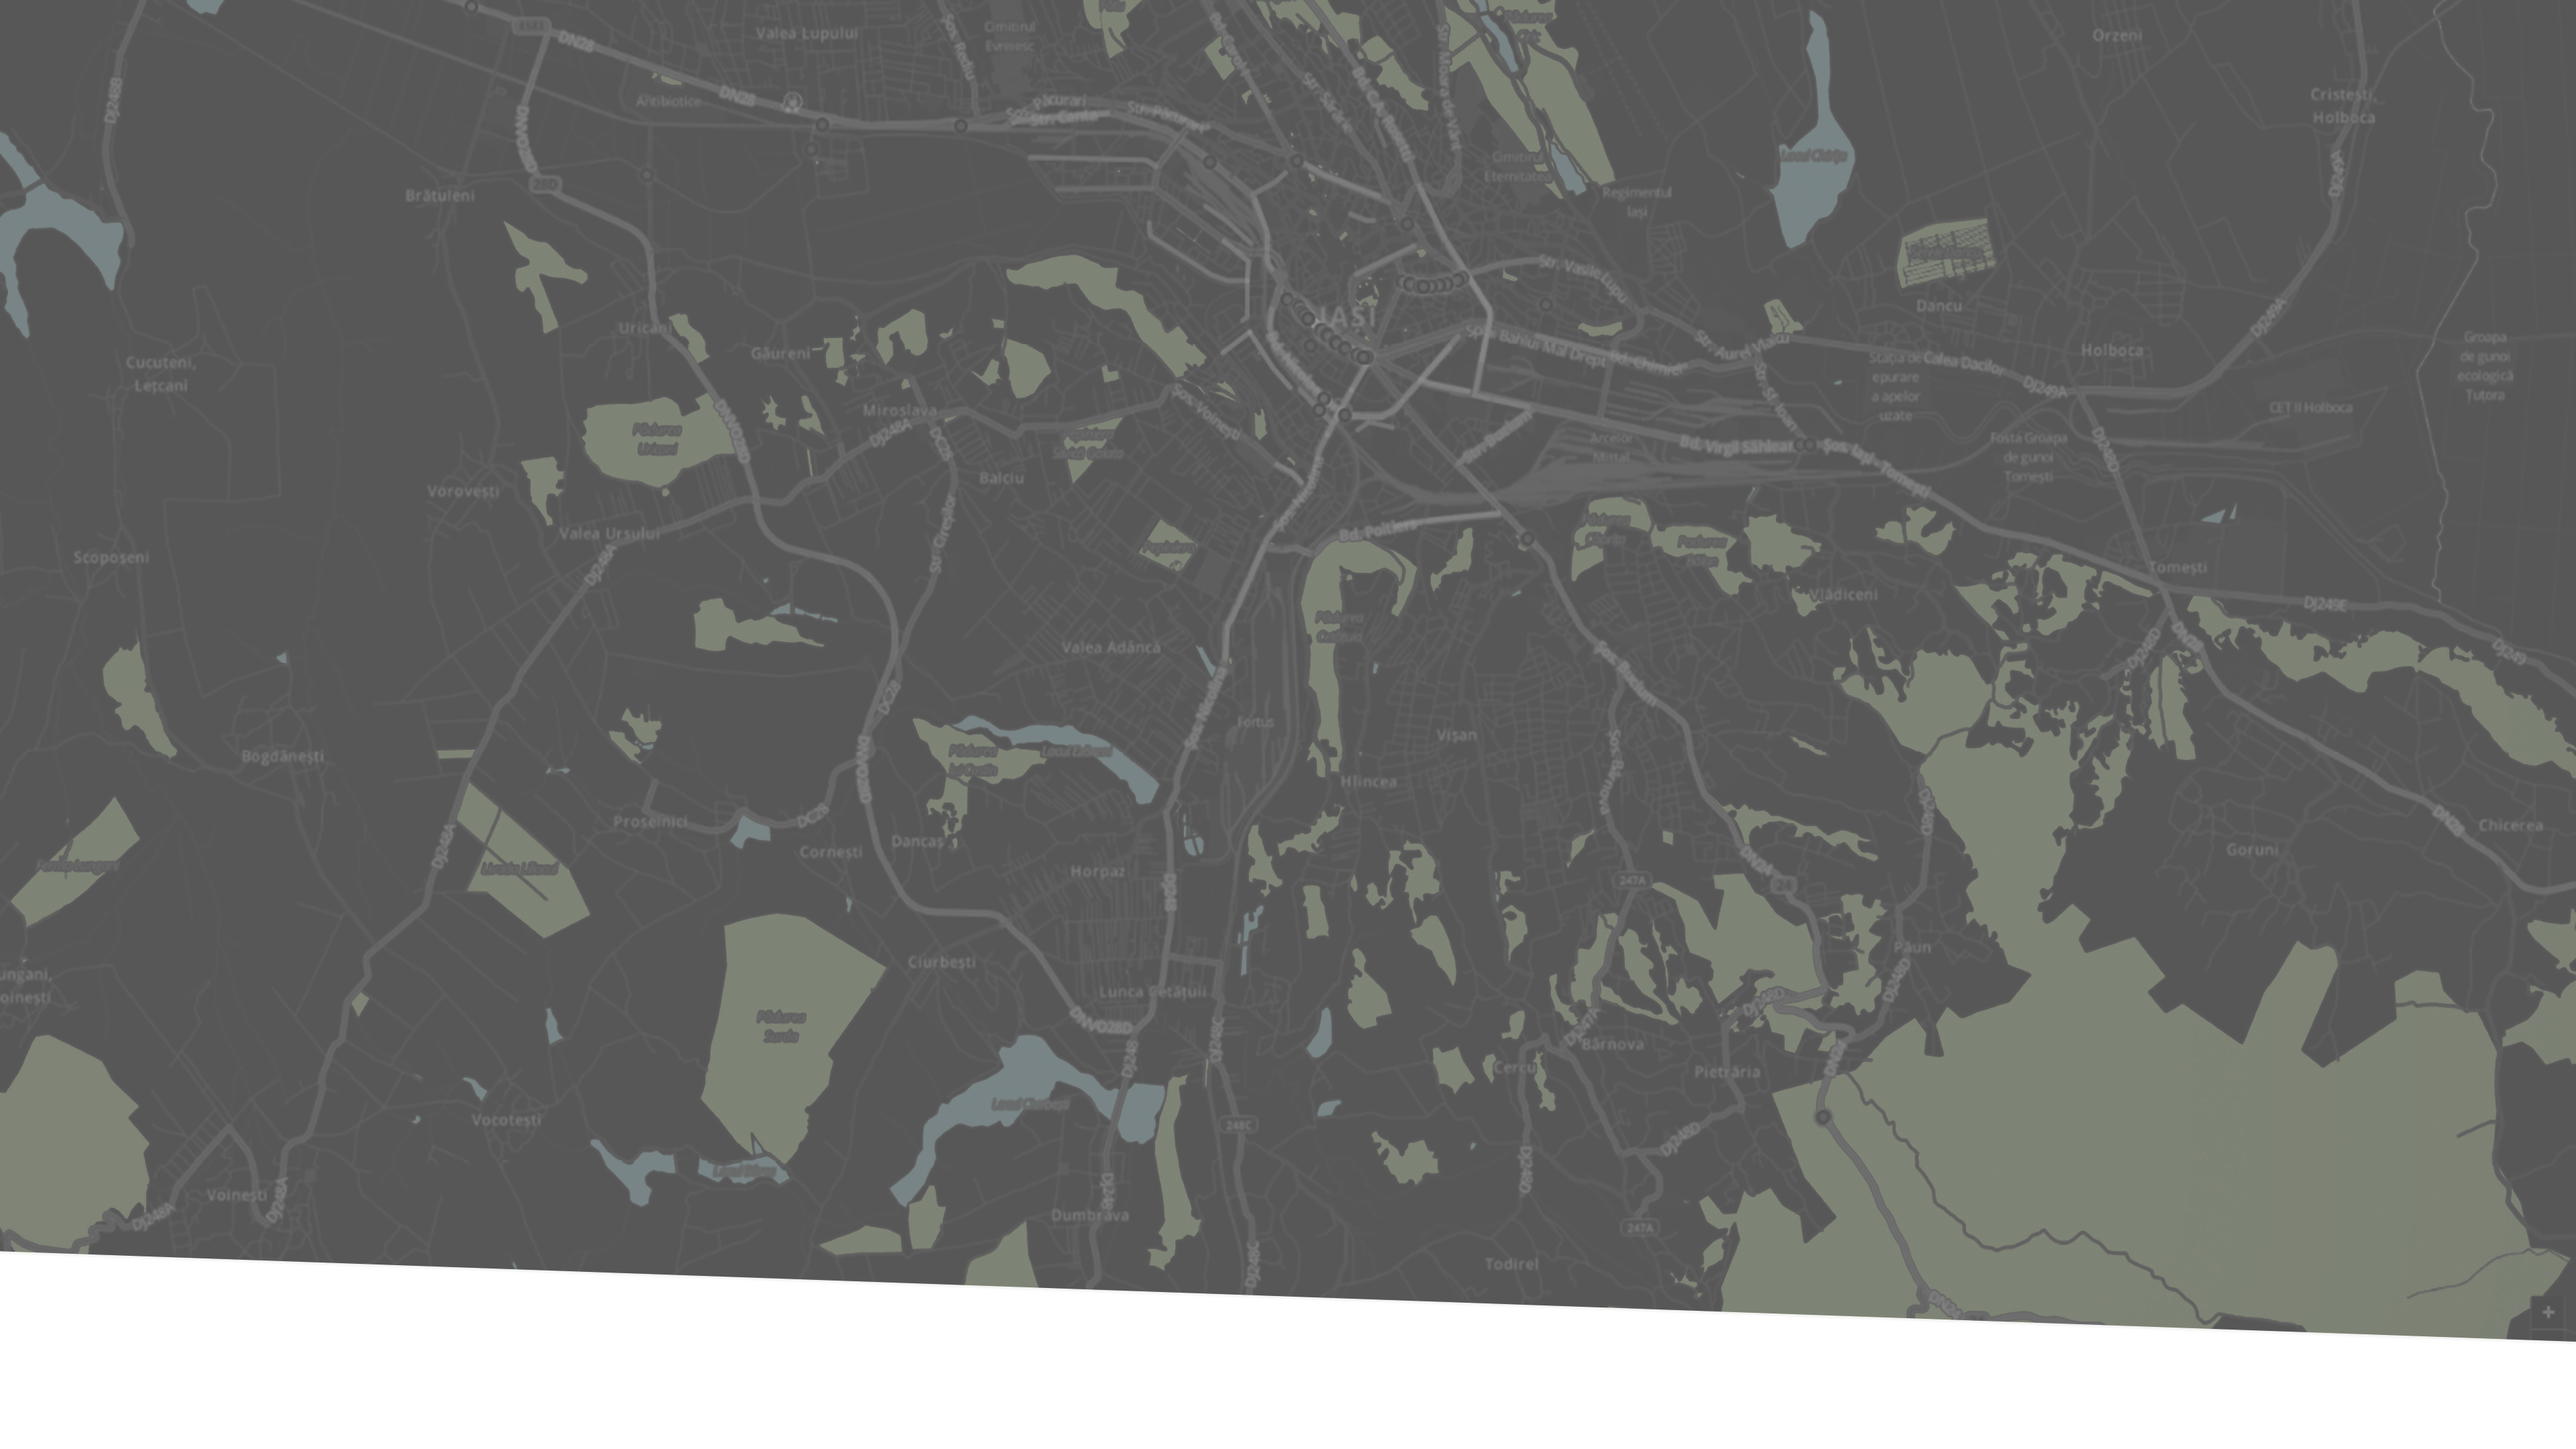
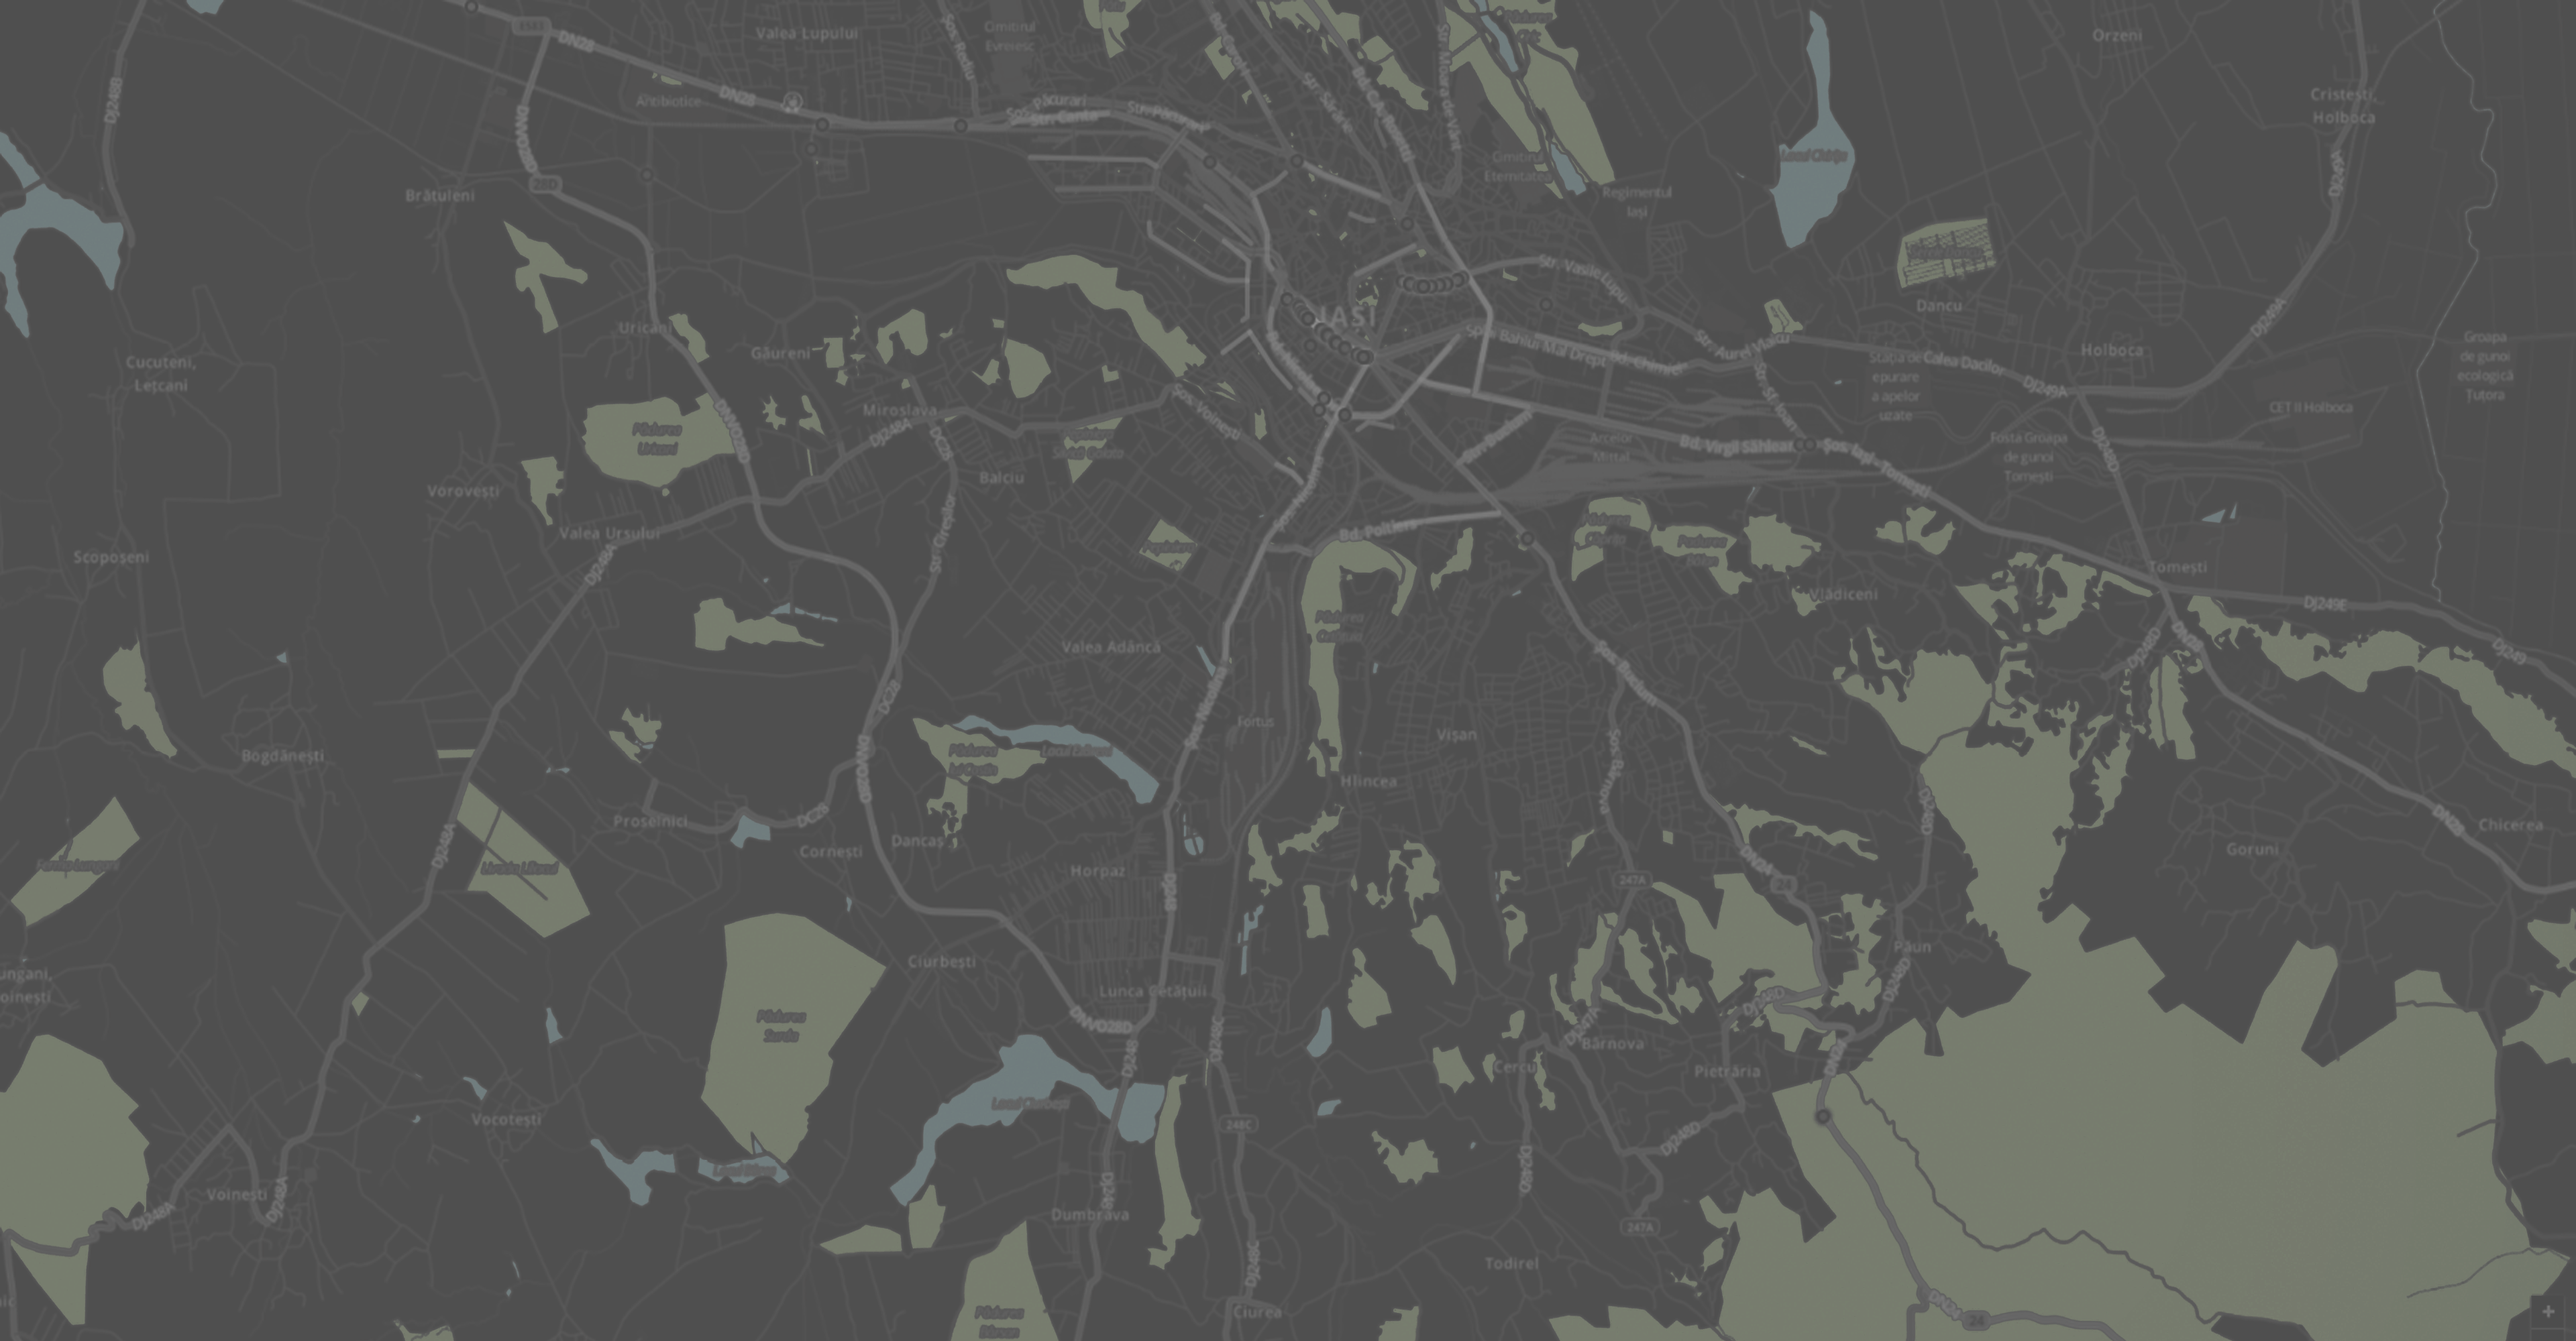
cleanup + resized background image for main page

diff --git a/styles/main.css b/styles/main.css
@@ -1,7 +1,7 @@
 /* ------------------------- Background Image --------------------------- */
 
 .wrapper {
-    background-image: url(../images/bg-home.png);
+    background-image: url(../images/homesmall.png);
     background-size: cover;
     background-repeat: no-repeat;
 }

diff --git a/styles/contact.css b/styles/contact.css
@@ -1,7 +1,7 @@
 /* wrapper universal styles in global+navs.css file */
 
 .wrapper {
-    background-image: url(../images/contact1.png);
+    background-image: url(../images/contact.png);
     background-size: cover;
     background-repeat: no-repeat;
 }

diff --git a/styles/resume.css b/styles/resume.css
@@ -2,7 +2,7 @@
 /* background and main container box */
 
 .wrapper {
-    background-image: url(../images/resume1.png);
+    background-image: url(../images/resume.png);
     background-size: cover;
     background-repeat: no-repeat;
 }
